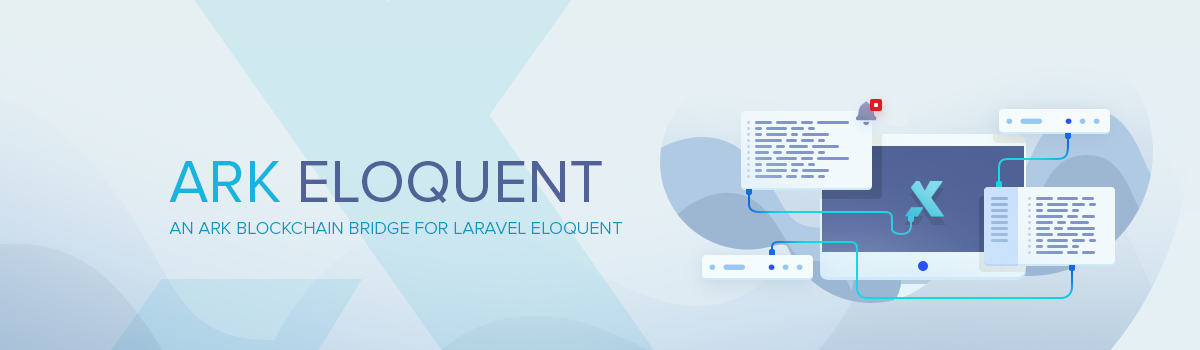
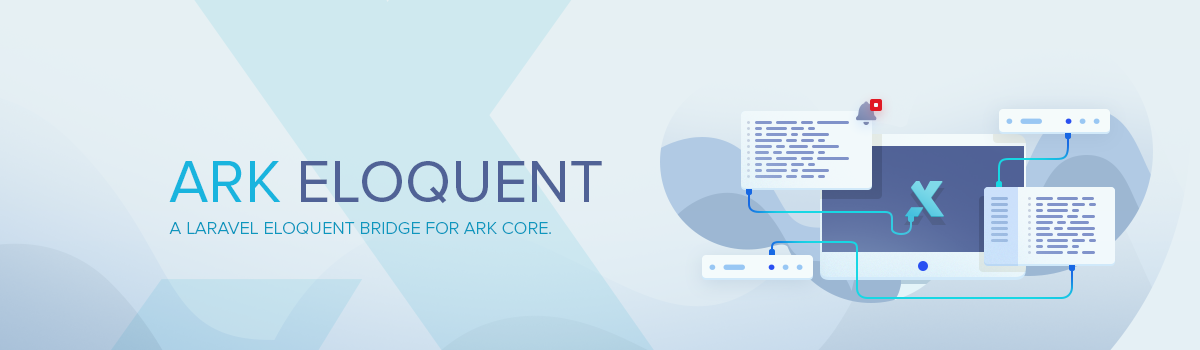
chore: rephrase description

Changed region(s): [[0.1542, 0.6286, 0.5242, 0.6857]]

diff --git a/README.md b/README.md
@@ -4,7 +4,7 @@
     <img src="https://github.com/arkx-ecosystem/ark-eloquent/raw/master/banner.png" />
 </p>
 
-> An [Elasticsearch](https://github.com/ArkEcosystem/core) integration for the [ARK Blockchain](https://github.com/ArkEcosystem/core).
+> A [Laravel Eloquent](https://laravel.com/docs/5.6/eloquent) bridge for [Ark Core](https://github.com/ArkEcosystem/core).
 
 ## Installation
 
